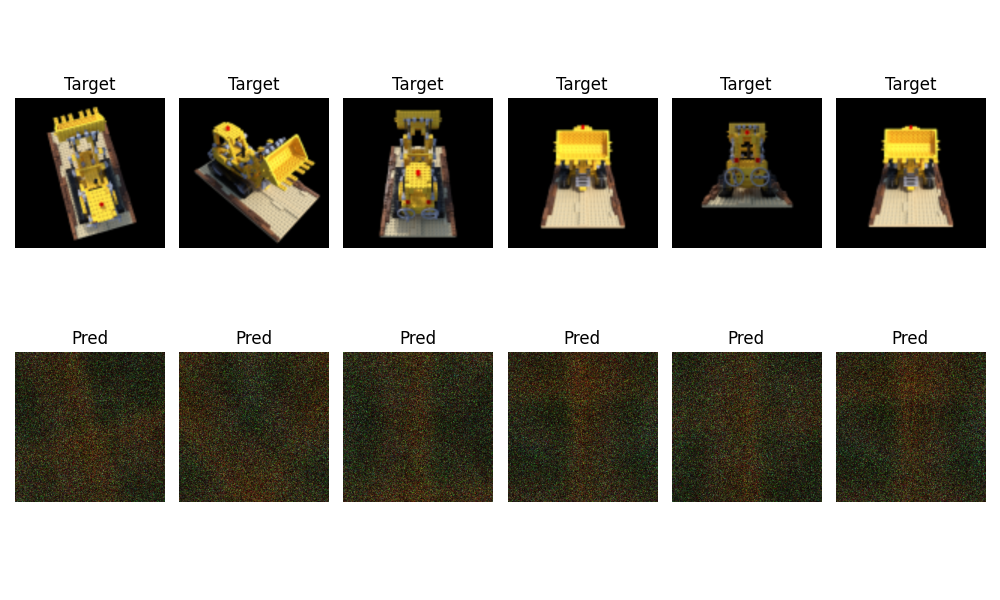
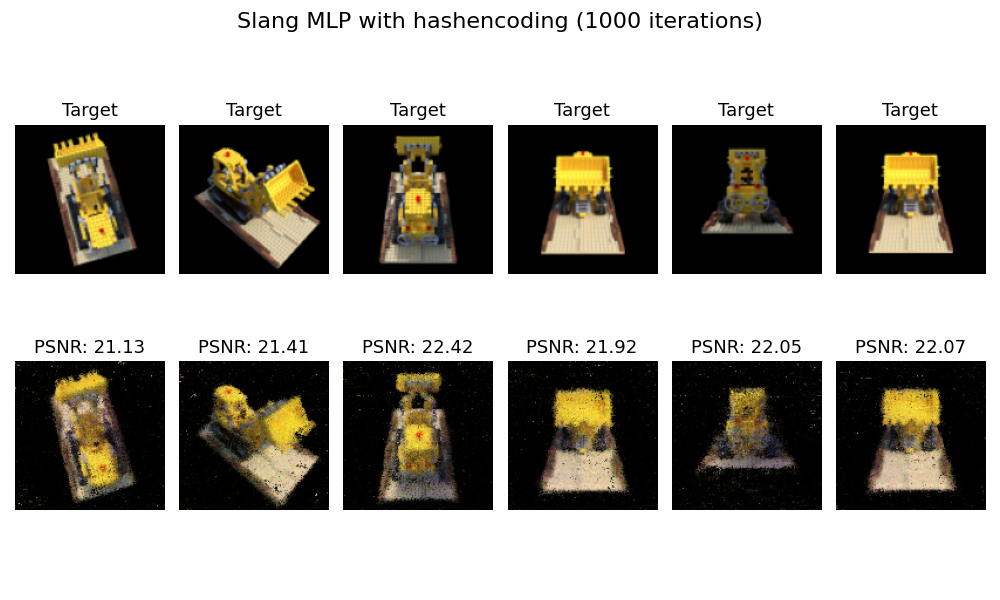
hash encoding for slang mlp

diff --git a/trainers/slanghash_trainer.py b/trainers/slanghash_trainer.py
@@ -13,15 +13,16 @@ os.chdir("../..")
 
 class SlangHashTrainer:
     def __init__(self):
-        self.width, self.height = 256, 256
+        self.width, self.height = 128, 128
         self.N_samples = 32
         self.C = 32
         self.embeded = torch.tensor([True], dtype=torch.bool).cuda()
         self.device = 'cuda'
-        self.dataset = DataLoader()
+        self.dataset = DataLoader(H= self.height, W = self.width, N_samples = self.N_samples)
+        self.bounding_box = self.dataset.get_bbx()
         self.model = RenderImage()
         self.loss_fn = torch.nn.MSELoss()
-        self.feature_field = FeatureField(features_per_level = 32).cuda()
+        self.feature_field = FeatureField(features_per_level = 32,res=self.height).cuda()
         self.params = self.init_params()
         
     def init_params(self):
@@ -35,16 +36,20 @@ class SlangHashTrainer:
     
     def train(self, iters, lr=5e-3):
         self.iters = iters
-        optimizer = torch.optim.Adam(self.params, lr=lr) 
+        #optimizer = torch.optim.Adam(self.params, lr=lr) 
+        optimizer = torch.optim.Adam([ {'params': self.params},
+                                {'params': self.feature_field.parameters()}], lr=lr)
         start = time.time()
         for i in range(iters):
-            img_i = np.random.randint(10)
+            img_i = np.random.randint(100)
             x, dists, target_image, viewdirs = self.dataset.get_data(img_i)
-            encoded_x = self.feature_field.encode(x)
+            x = self.normalize_coordinates(x)
+            embedded_x = self.feature_field.encode(x)
+            
             encoded_viewdirs = viewdirs  
             y_pred = self.model.apply(
             self.width, self.height,
-            encoded_x, encoded_viewdirs, dists, self.embeded,
+            embedded_x, encoded_viewdirs, dists, self.embeded,
             *self.params)
             
             loss = self.loss_fn(y_pred, target_image)
@@ -64,12 +69,17 @@ class SlangHashTrainer:
         test_images = [100,101,102,103,104,105] #test cases
         for img_i in  test_images :
             x, dists, target_image, viewdirs = self.dataset.get_data(img_i)
-            encoded_x = self.feature_field.encode(x)                
+            x = self.normalize_coordinates(x)
+            embedded_x = self.feature_field.encode(x)   
+
             encoded_viewdirs = viewdirs  
+            
             y_pred = self.model.apply(
                 self.width, self.height,
-                encoded_x, encoded_viewdirs, dists, self.embeded,
+                embedded_x, encoded_viewdirs, dists, self.embeded,
                 *self.params)
+            
+            
             loss = self.loss_fn(y_pred, target_image)
             psnr = -10. * torch.log(loss) / torch.math.log(10.)
             print(f"Iteration {img_i}, Loss: {loss.item()}, psnr: {psnr.item()}") 
@@ -80,4 +90,15 @@ class SlangHashTrainer:
         end = time.time()
         print('avg rendering time:', (end - start)/len(test_images))
         if(saveimg):
-            save_images(target_images, intermediate_images,'slang.png', "Slang MLP with hashencoding" , self.iters, psnrs)
+            save_images(target_images, intermediate_images,'slanghash.png', "Slang MLP with hashencoding" , self.iters, psnrs)
+            
+    def normalize_coordinates(self,x):
+        min_xyz = self.bounding_box[0].to(self.device) 
+        max_xyz = self.bounding_box[1].to(self.device) 
+        range_xyz = max_xyz - min_xyz
+        x_shape = x.shape
+        x = x.reshape(-1,3)
+        range_xyz[range_xyz == 0] = 1.0
+        x = (x - min_xyz)/range_xyz
+        x = x.reshape(x_shape)
+        return x

diff --git a/trainers/torchhash_trainer.py b/trainers/torchhash_trainer.py
@@ -12,14 +12,14 @@ torch.cuda.empty_cache()
 
 class TorchHashTrainer:
     def __init__(self):
-        self.width, self.height = 256, 256
+        self.width, self.height = 128, 128
         self.N_samples = 32
         self.C = 32
         self.device = 'cuda'
         self.model = MLP(self.C, self.C, self.C).to(self.device)
-        self.dataset = DataLoader()
+        self.dataset = DataLoader(H= self.height, W = self.width, N_samples = self.N_samples)
         self.bounding_box = self.dataset.get_bbx()
-        self.feature_field = FeatureField(features_per_level = 32).cuda()
+        self.feature_field = FeatureField(features_per_level = 32, res=self.height).cuda()
         self.loss_fn = torch.nn.MSELoss()
         
     def train(self, iters, lr = 5e-3): #5e-3
@@ -34,7 +34,7 @@ class TorchHashTrainer:
             #hashencoding
             x = self.normalize_coordinates(x)
             embedded_x = self.feature_field.encode(x)
-            #embedded_x = pos_embed(x)[...,:-1]
+            
             viewdirs = (pos_embed(viewdirs)[...,:16]).unsqueeze(2).expand(-1, -1, self.N_samples, -1)
             #MLP and volume rendering
             y_pred = self.model(embedded_x, viewdirs)
@@ -76,8 +76,8 @@ class TorchHashTrainer:
             save_images(target_images, intermediate_images,'torchhash.png', "PyTorch MLP with hashencoding" , self.iters, psnrs)
             
     def normalize_coordinates(self,x):
-        min_xyz = torch.tensor(self.bounding_box[0], dtype=x.dtype, device=x.device)
-        max_xyz = torch.tensor(self.bounding_box[1], dtype=x.dtype, device=x.device)
+        min_xyz = self.bounding_box[0].to(self.device) 
+        max_xyz = self.bounding_box[1].to(self.device) 
         range_xyz = max_xyz - min_xyz
         x_shape = x.shape
         x = x.reshape(-1,3)

diff --git a/trainers/slang_trainer.py b/trainers/slang_trainer.py
@@ -13,12 +13,12 @@ os.chdir("../..")
 
 class SlangTrainer:
     def __init__(self):
-        self.width, self.height = 256, 256
+        self.width, self.height = 128, 128
         self.N_samples = 32
         self.C = 32
         self.embeded = torch.tensor([False], dtype=torch.bool).cuda()
         self.device = 'cuda'
-        self.dataset = DataLoader()
+        self.dataset = DataLoader(H= self.height, W = self.width, N_samples = self.N_samples)
         self.model = RenderImage()
         self.loss_fn = torch.nn.MSELoss()
         self.params = self.init_params()

diff --git a/trainers/torch_trainer.py b/trainers/torch_trainer.py
@@ -11,12 +11,12 @@ torch.cuda.empty_cache()
 
 class TorchTrainer:
     def __init__(self):
-        self.width, self.height = 256, 256
+        self.width, self.height = 128, 128
         self.N_samples = 32
         self.C = 32
         self.device = 'cuda'
         self.model = MLP(self.C, self.C, self.C).to(self.device)
-        self.dataset = DataLoader()
+        self.dataset = DataLoader(H= self.height, W = self.width, N_samples = self.N_samples)
         self.loss_fn = torch.nn.MSELoss()
         
     def train(self, iters, lr = 5e-3):

diff --git a/utils/hashencoder/feature_field.py b/utils/hashencoder/feature_field.py
@@ -7,7 +7,7 @@ import torch
 import torch.nn as nn
 import math
 class FeatureField(nn.Module): #hashmap_scale=.0001, res=1024
-    def __init__(self, hashmap_scale=1, log2_hashmap_size=19, features_per_level=2, res=256):
+    def __init__(self, hashmap_scale=1, log2_hashmap_size=19, features_per_level=2, res=128):
         super().__init__()
         self.hashtable_size = 2**log2_hashmap_size
         self.features_per_level = features_per_level

diff --git a/utils/data_loader.py b/utils/data_loader.py
@@ -4,12 +4,12 @@ import cv2
 import time
 
 class DataLoader():
-    def __init__(self):
+    def __init__(self, H, W, N_samples = 32):
         self.device = "cuda"
-        self.H, self.W = 256, 256
+        self.H, self.W = H, W
         self.near= 2
         self.far = 6
-        self.N_samples = 32
+        self.N_samples = N_samples
         self.load_data()
         
     def load_data(self):   

diff --git a/run.py b/run.py
@@ -19,7 +19,7 @@ def main(trainer_type):
         model = TorchHashTrainer()
     else:
         raise ValueError("Invalid trainer type. Please provide 'slang' or 'torch'.")
-    model.train(iters=10)
+    model.train(iters=1000)
     model.render(saveimg=True)
 
 if __name__ == '__main__':
